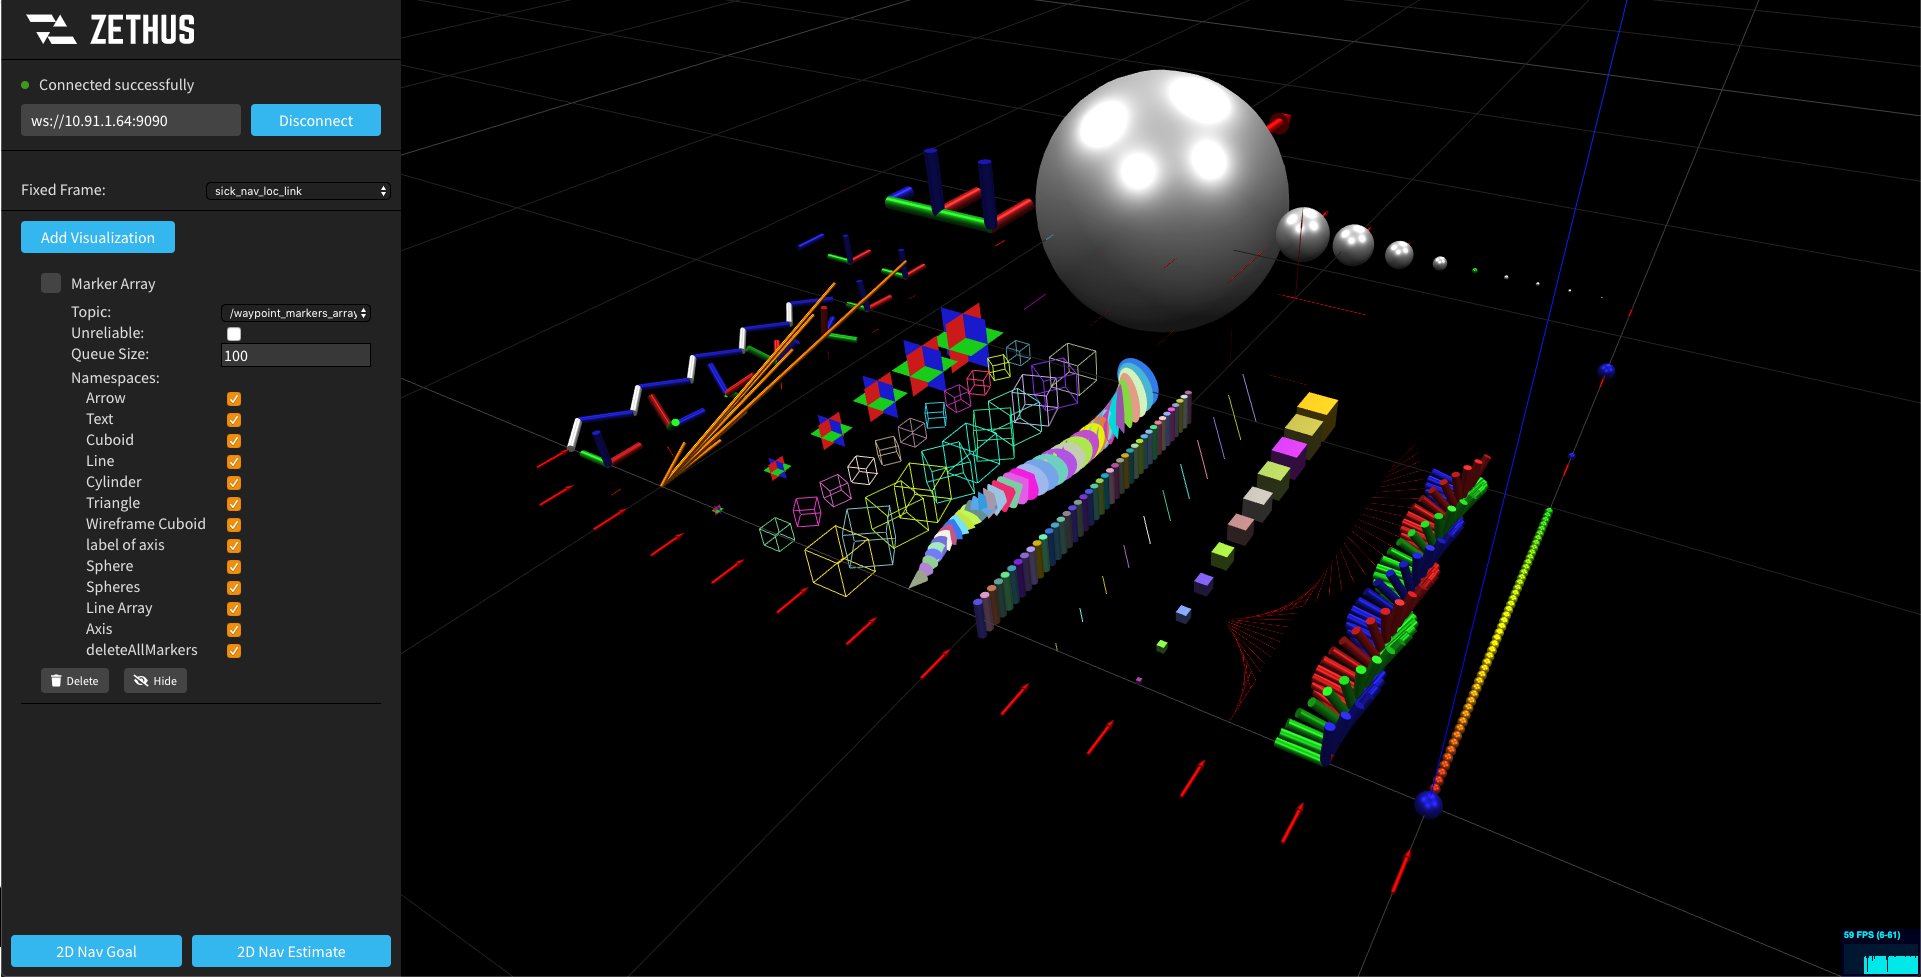
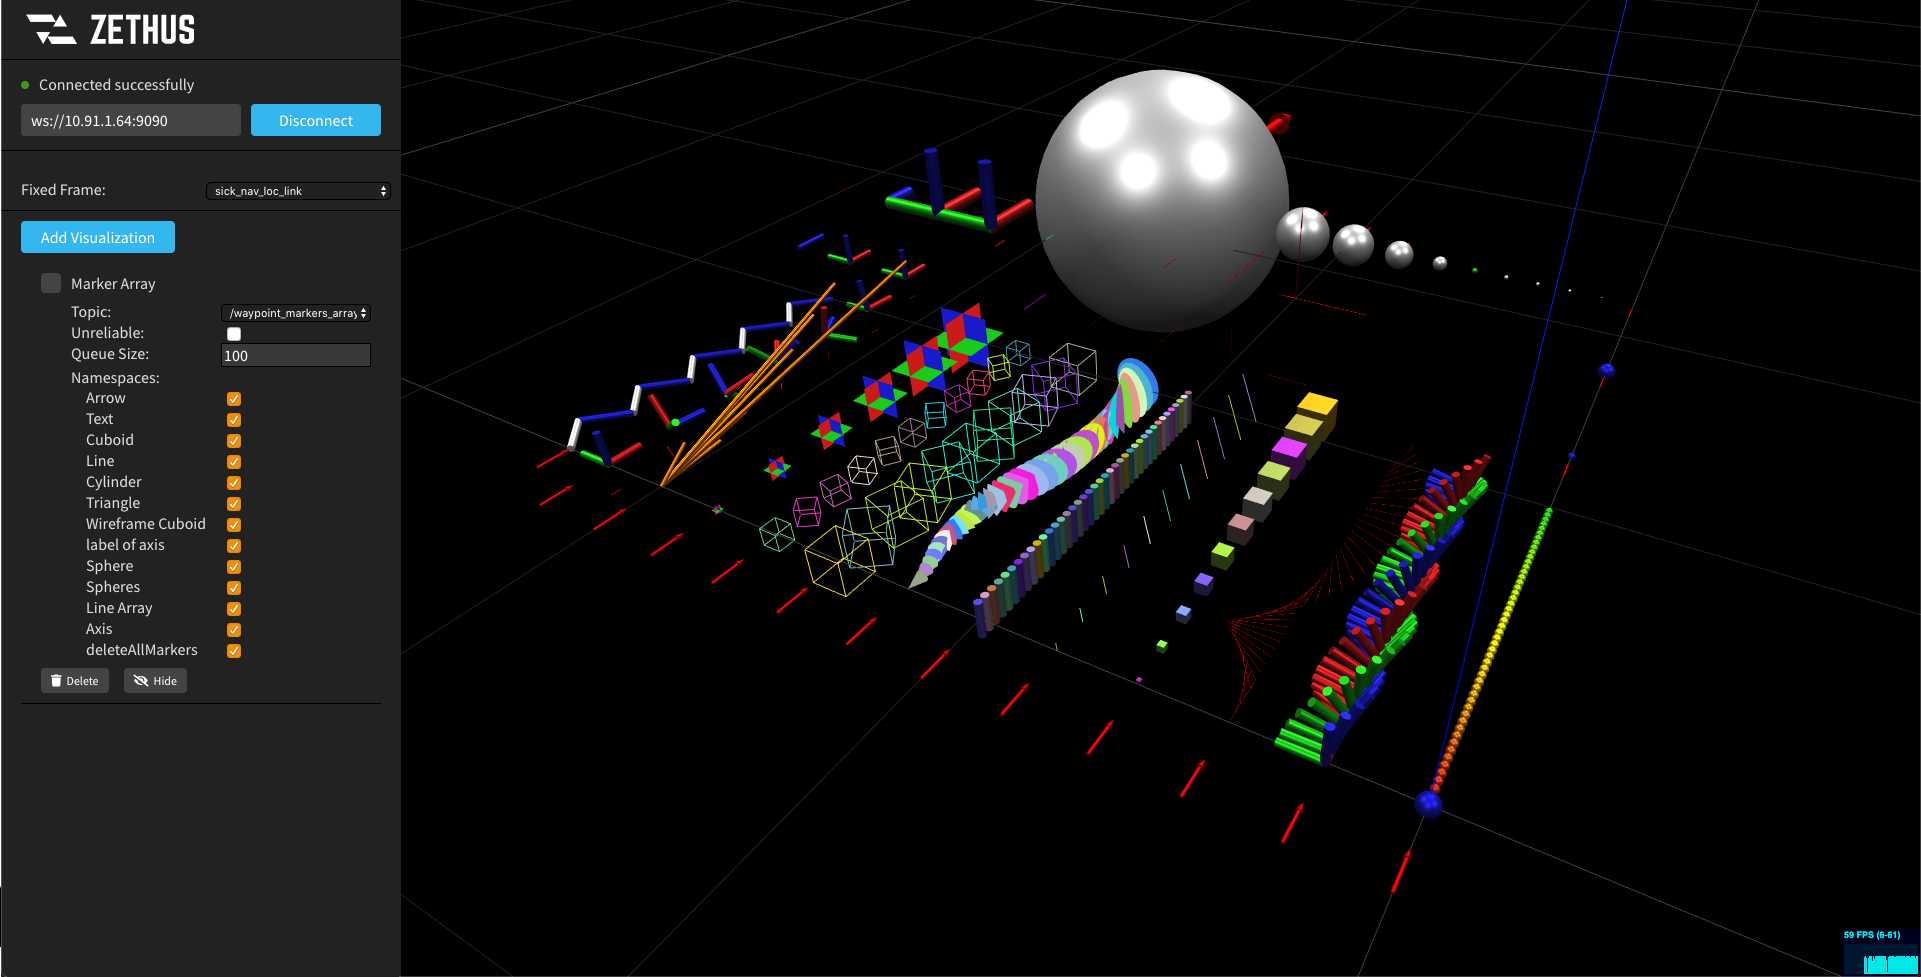
Minor bugfixes and styling changes

Changed region(s): [[0.0, 0.9519, 0.2186, 1.0]]

diff --git a/src/components/sidebar.js b/src/components/sidebar.js
@@ -38,8 +38,10 @@ class Sidebar extends React.Component {
     ) {
       disconnectRos();
     } else if (
-      rosStatus === ROS_SOCKET_STATUSES.INITIAL ||
-      rosStatus === ROS_SOCKET_STATUSES.CONNECTION_ERROR
+      _.includes(
+        [ROS_SOCKET_STATUSES.INITIAL, ROS_SOCKET_STATUSES.CONNECTION_ERROR],
+        rosStatus,
+      )
     ) {
       connectRos(rosEndpoint);
     }
@@ -78,24 +80,19 @@ class Sidebar extends React.Component {
 
   disableEndpointInput() {
     const { rosStatus } = this.props;
-
-    if (
-      rosStatus === ROS_SOCKET_STATUSES.CONNECTED ||
-      rosStatus === ROS_SOCKET_STATUSES.CONNECTING
-    ) {
-      return true;
-    }
-
-    return false;
+    return _.includes(
+      [ROS_SOCKET_STATUSES.CONNECTED, ROS_SOCKET_STATUSES.CONNECTING],
+      rosStatus,
+    );
   }
 
   render() {
     const {
-      scene,
       vizWrapper,
       updateTopic,
       updateOptions,
       ros,
+      rosTopics,
       rosStatus,
       visualizations,
       toggleAddModal,
@@ -130,14 +127,11 @@ class Sidebar extends React.Component {
                 className="btn-primary"
                 type="submit"
               >
-                {rosStatus === ROS_SOCKET_STATUSES.CONNECTED ||
-                rosStatus === ROS_SOCKET_STATUSES.CONNECTING
-                  ? 'Disconnect'
-                  : 'Connect'}
+                {this.disableEndpointInput() ? 'Disconnect' : 'Connect'}
               </button>
             </form>
           </div>
-          <GlobalOptions vizWrapper={vizWrapper} scene={scene} ros={ros} />
+          <GlobalOptions vizWrapper={vizWrapper} ros={ros} />
           {rosStatus === ROS_SOCKET_STATUSES.CONNECTED && (
             <div id="visualzation-list">
               <button
@@ -152,6 +146,7 @@ class Sidebar extends React.Component {
               )}
               {_.map(visualizations, viz => (
                 <VizListItem
+                  rosTopics={rosTopics}
                   updateTopic={updateTopic}
                   updateOptions={updateOptions}
                   updateVisibilty={updateVisibilty}
@@ -164,22 +159,22 @@ class Sidebar extends React.Component {
             </div>
           )}
         </div>
-        <div className="sidebar-bottom-btn" onBlur={this.nav2DBtnBlur}>
-          <button
-            type="button"
-            className="btn-primary"
-            onClick={this.navGoal2DClicked}
-          >
-            2D Nav Goal
-          </button>
-          <button
-            type="button"
-            className="btn-primary"
-            onClick={this.navEstimate2DClicked}
-          >
-            2D Nav Estimate
-          </button>
-        </div>
+        {/* <div className="sidebar-bottom-btn" onBlur={this.nav2DBtnBlur}> */}
+        {/* <button */}
+        {/* type="button" */}
+        {/* className="btn-primary" */}
+        {/* onClick={this.navGoal2DClicked} */}
+        {/* > */}
+        {/* 2D Nav Goal */}
+        {/* </button> */}
+        {/* <button */}
+        {/* type="button" */}
+        {/* className="btn-primary" */}
+        {/* onClick={this.navEstimate2DClicked} */}
+        {/* > */}
+        {/* 2D Nav Estimate */}
+        {/* </button> */}
+        {/* </div> */}
       </div>
     );
   }

diff --git a/src/components/vizListItem.js b/src/components/vizListItem.js
@@ -1,5 +1,9 @@
 import React from 'react';
+import _ from 'lodash';
+
+import { MESSAGE_TYPE_ROBOT_MODEL } from 'amphion/src/utils/constants';
 import VizOptionsMap from './sidebarOptions';
+import { vizOptions } from '../utils';
 
 class VizListItem extends React.Component {
   constructor(props) {
@@ -7,6 +11,7 @@ class VizListItem extends React.Component {
 
     this.state = {
       topicTypes: [],
+      hidden: false,
     };
     this.changeTopic = this.changeTopic.bind(this);
     this.getTopics = this.getTopics.bind(this);
@@ -29,11 +34,9 @@ class VizListItem extends React.Component {
     ros.getTopicsForType(type, data => {
       this.setState({
         topicTypes: [...data],
-        hidden: false,
       });
     });
   }
-
   changeTopic(event) {
     const {
       updateTopic,
@@ -86,9 +89,17 @@ class VizListItem extends React.Component {
 
   render() {
     const {
-      details: { displayName, name, options, rosObject, visible },
+      rosTopics: { topics: availableTopics, types: availableTopicTypes },
+      details: { displayName, name, options, rosObject, visible, type },
     } = this.props;
+
     const { topicTypes } = this.state;
+
+    const vizType = _.find(vizOptions, vo => vo.name === displayName);
+    const supportedAvailableTopics = _.filter(availableTopics, (topic, index) =>
+      _.includes(vizType.messageTypes, availableTopicTypes[index]),
+    );
+
     const newProps = {
       rosObject,
       options,
@@ -102,19 +113,21 @@ class VizListItem extends React.Component {
           <span className="type-image" />
           {displayName}
         </div>
-        <div className="display-type-form-content">
-          <div className="option-section" onClick={this.getTopics}>
-            <span>Topic:</span>
-            <span>
-              <select onChange={this.changeTopic} value={name}>
-                {topicTypes.map(topic => (
-                  <option key={topic}>{topic}</option>
-                ))}
-              </select>
-            </span>
+        {type !== MESSAGE_TYPE_ROBOT_MODEL && (
+          <div className="display-type-form-content">
+            <div className="option-section" onClick={this.getTopics}>
+              <span>Topic:</span>
+              <span>
+                <select onChange={this.changeTopic} value={name}>
+                  {_.map(supportedAvailableTopics, topic => (
+                    <option key={topic}>{topic}</option>
+                  ))}
+                </select>
+              </span>
+            </div>
+            {vizComp}
           </div>
-          {vizComp}
-        </div>
+        )}
         <div className="display-type-form-button-section">
           <button type="button" onClick={this.delete}>
             <i className="fa fa-trash" aria-hidden="true" />

diff --git a/src/styles/main.scss b/src/styles/main.scss
@@ -68,7 +68,7 @@ body {
 }
 
 input,
-button {
+button, select {
   font-size: inherit;
   font-family: inherit;
   outline: 0;
@@ -88,6 +88,9 @@ a {
 
 p {
   line-height: 1.5;
+}
+input[disabled] {
+  cursor: not-allowed;
 }
 
 .flex {
@@ -290,6 +293,7 @@ p {
 
   .option-section {
     display: flex;
+    align-items: center;
 
     > * {
       flex: 0 0 50%;
@@ -297,17 +301,25 @@ p {
     }
 
     select {
-      margin: 0;
-      border: 1px solid black;
+      margin: 3px 0;
       width: 100%;
+      background-color: #383838;
+      border: 0;
+      border-radius: 4px;
+      padding: 3px 10px;
     }
 
     input {
+      margin: 3px 0;
       width: 100%;
-      background: #383838;
-      color: white;
-      padding: 1px 2px;
-      border: 1px solid black;
+      background-color: #383838;
+      color: inherit;
+      border-radius: 4px;
+      border: 0;
+      padding: 3px 10px;
+      &[type=color] {
+        padding: 0;
+      }
     }
   }
 

diff --git a/src/components/index.js b/src/components/index.js
@@ -65,7 +65,7 @@ class Wrapper extends React.Component {
     this.state = {
       rosStatus: ROS_SOCKET_STATUSES.INITIAL,
       visualizations: [],
-      addModalOpen: true,
+      addModalOpen: false,
       rosTopics: {},
     };
     this.ros = new ROSLIB.Ros();
@@ -403,7 +403,6 @@ class Wrapper extends React.Component {
           />
         )}
         <Sidebar
-          scene={this.scene}
           vizWrapper={this.vizWrapper}
           updateTopic={this.updateTopic}
           updateOptions={this.updateOptions}
